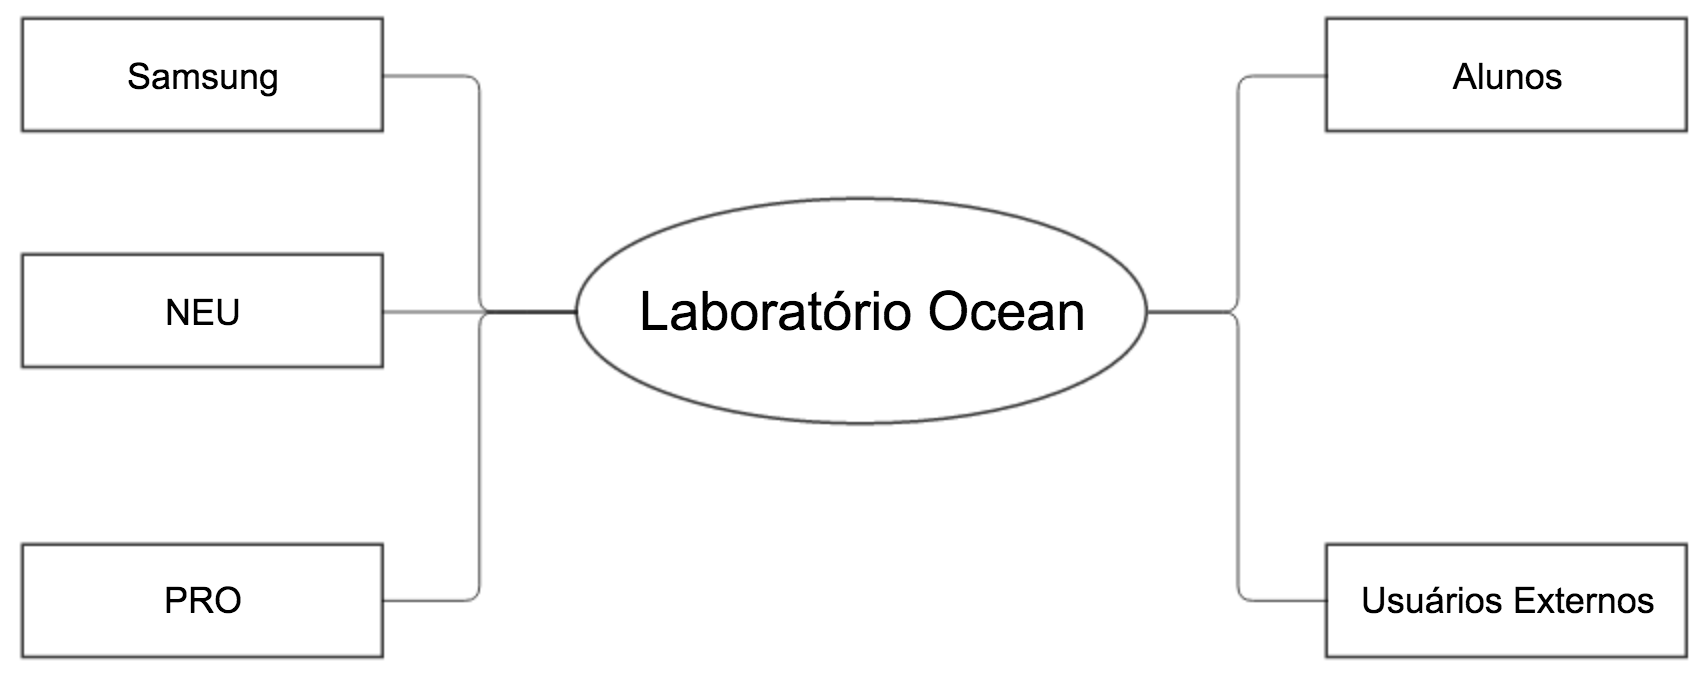
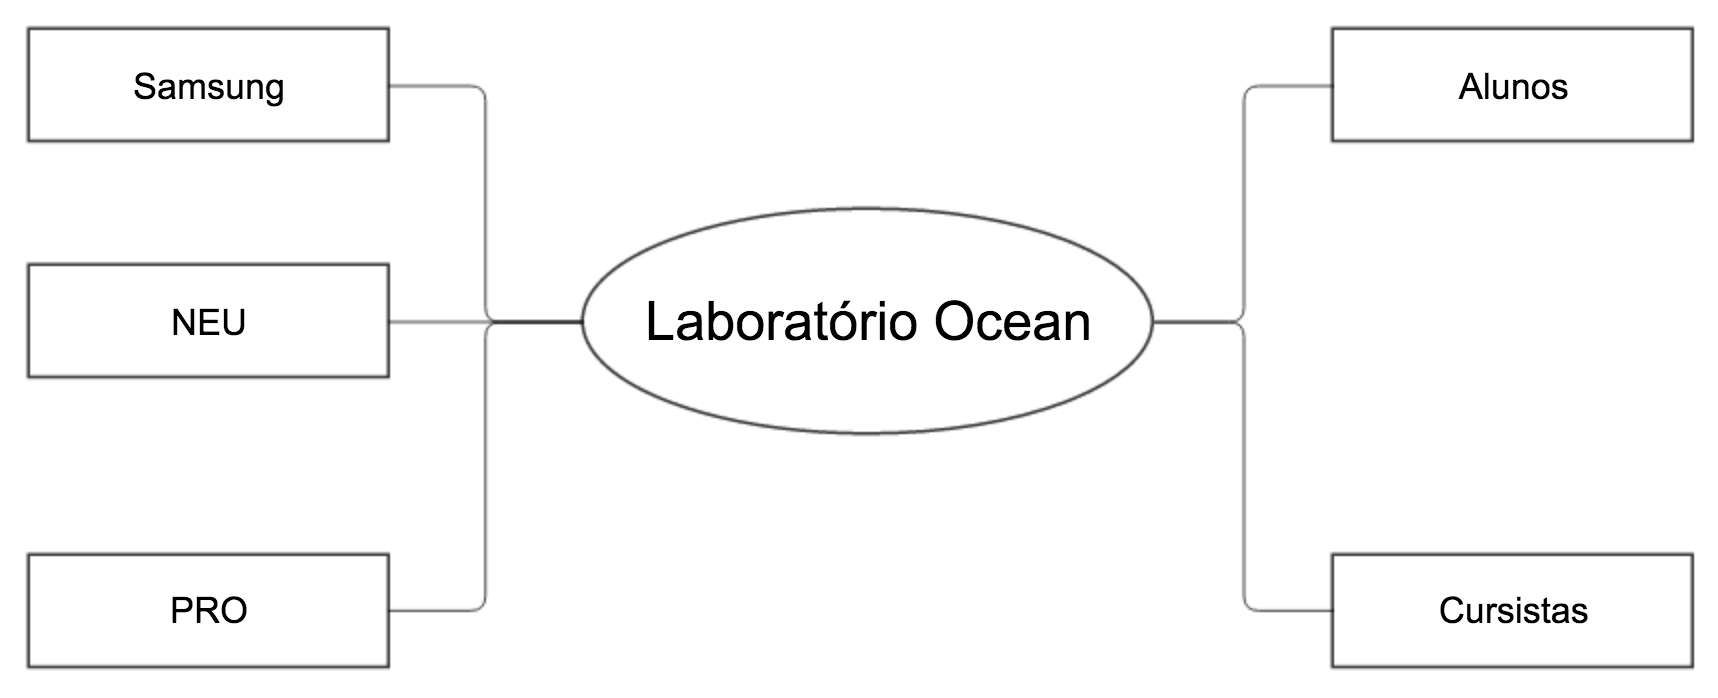
modifiquei termos para cursistas

diff --git a/objeto.tex b/objeto.tex
@@ -106,8 +106,8 @@ A presença de um laboratório como este também ajuda a fomentar a cultura de e
 \item Desenvolvimento de liderança e responsabilidade de um time
 \end{enumerate}
 
-\subsection{Usuários Externos}
-\label{sec:con_usuarios}
+\subsection{Cursistas}
+\label{sec:con_cursistas}
 
 Segundo a 27\textsuperscript{a} Pesquisa de Anual do uso de TI, realizada pela Fundação Getúlio Vargas (FGV), o número de smartphones em uso no Brasil gira atualmente em torno de 168 milhões de dispositivos. \cite{tifgv} Não obstante, além do alto número de smartphones, o Brasil também se mostra presente no mercado de outros dispositivos inteligentes, com previsão de movimentação de US\$4,1 bilhões no Brasil com IOT, segundo a assessoria de imprensa da IDC Brasil. \cite{idc}
 

diff --git a/analises.tex b/analises.tex
@@ -60,11 +60,11 @@ Por fim, é ressaltado a sinergia entre empresas que colaboram com o fomento à 
 \caption* {Fonte: Elaborado pelo próprio autor}
 \end{figure}
 
-\section{Usuários Externos}
+\section{Cursistas}
 
 \begin{figure}[h]
-\caption{Análise do Ocean - Usuários Externos}
+\caption{Análise do Ocean - Cursistas}
 \centerline{\includegraphics[scale=0.75]{img/generalswot}}
-\label{fig:swotusuarios}
+\label{fig:swotcursistas}
 \caption* {Fonte: Elaborado pelo próprio autor}
 \end{figure}
